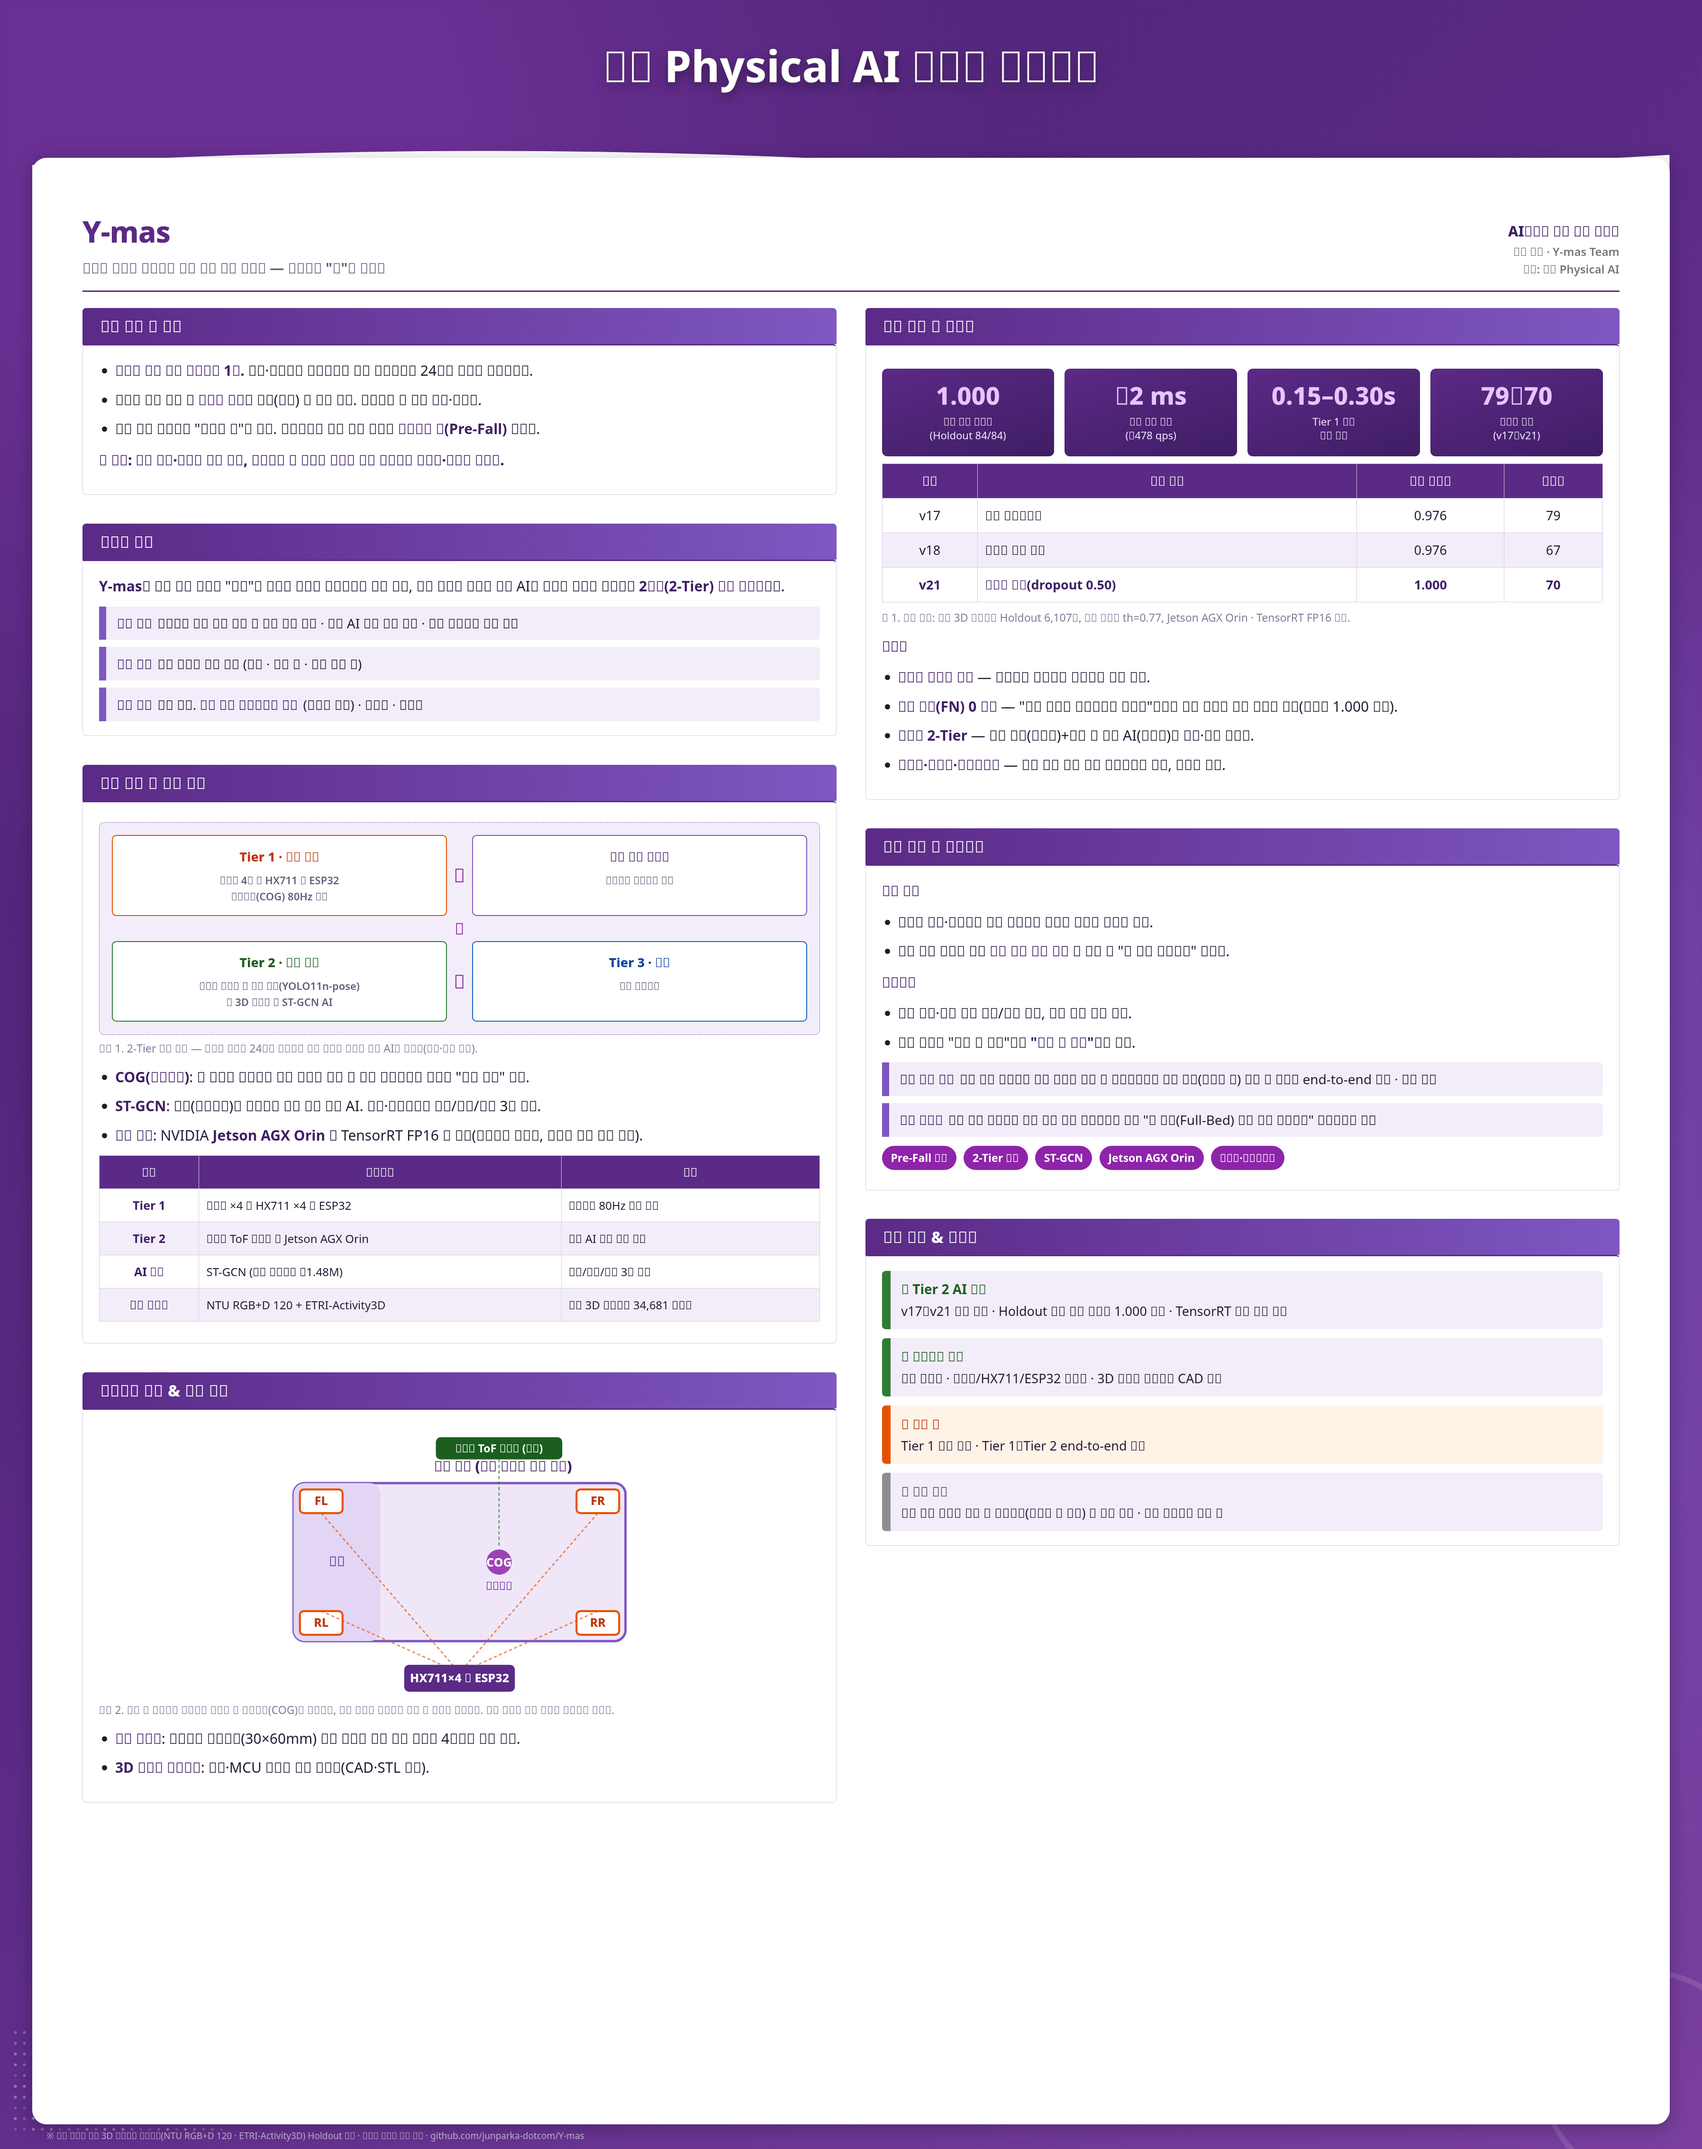
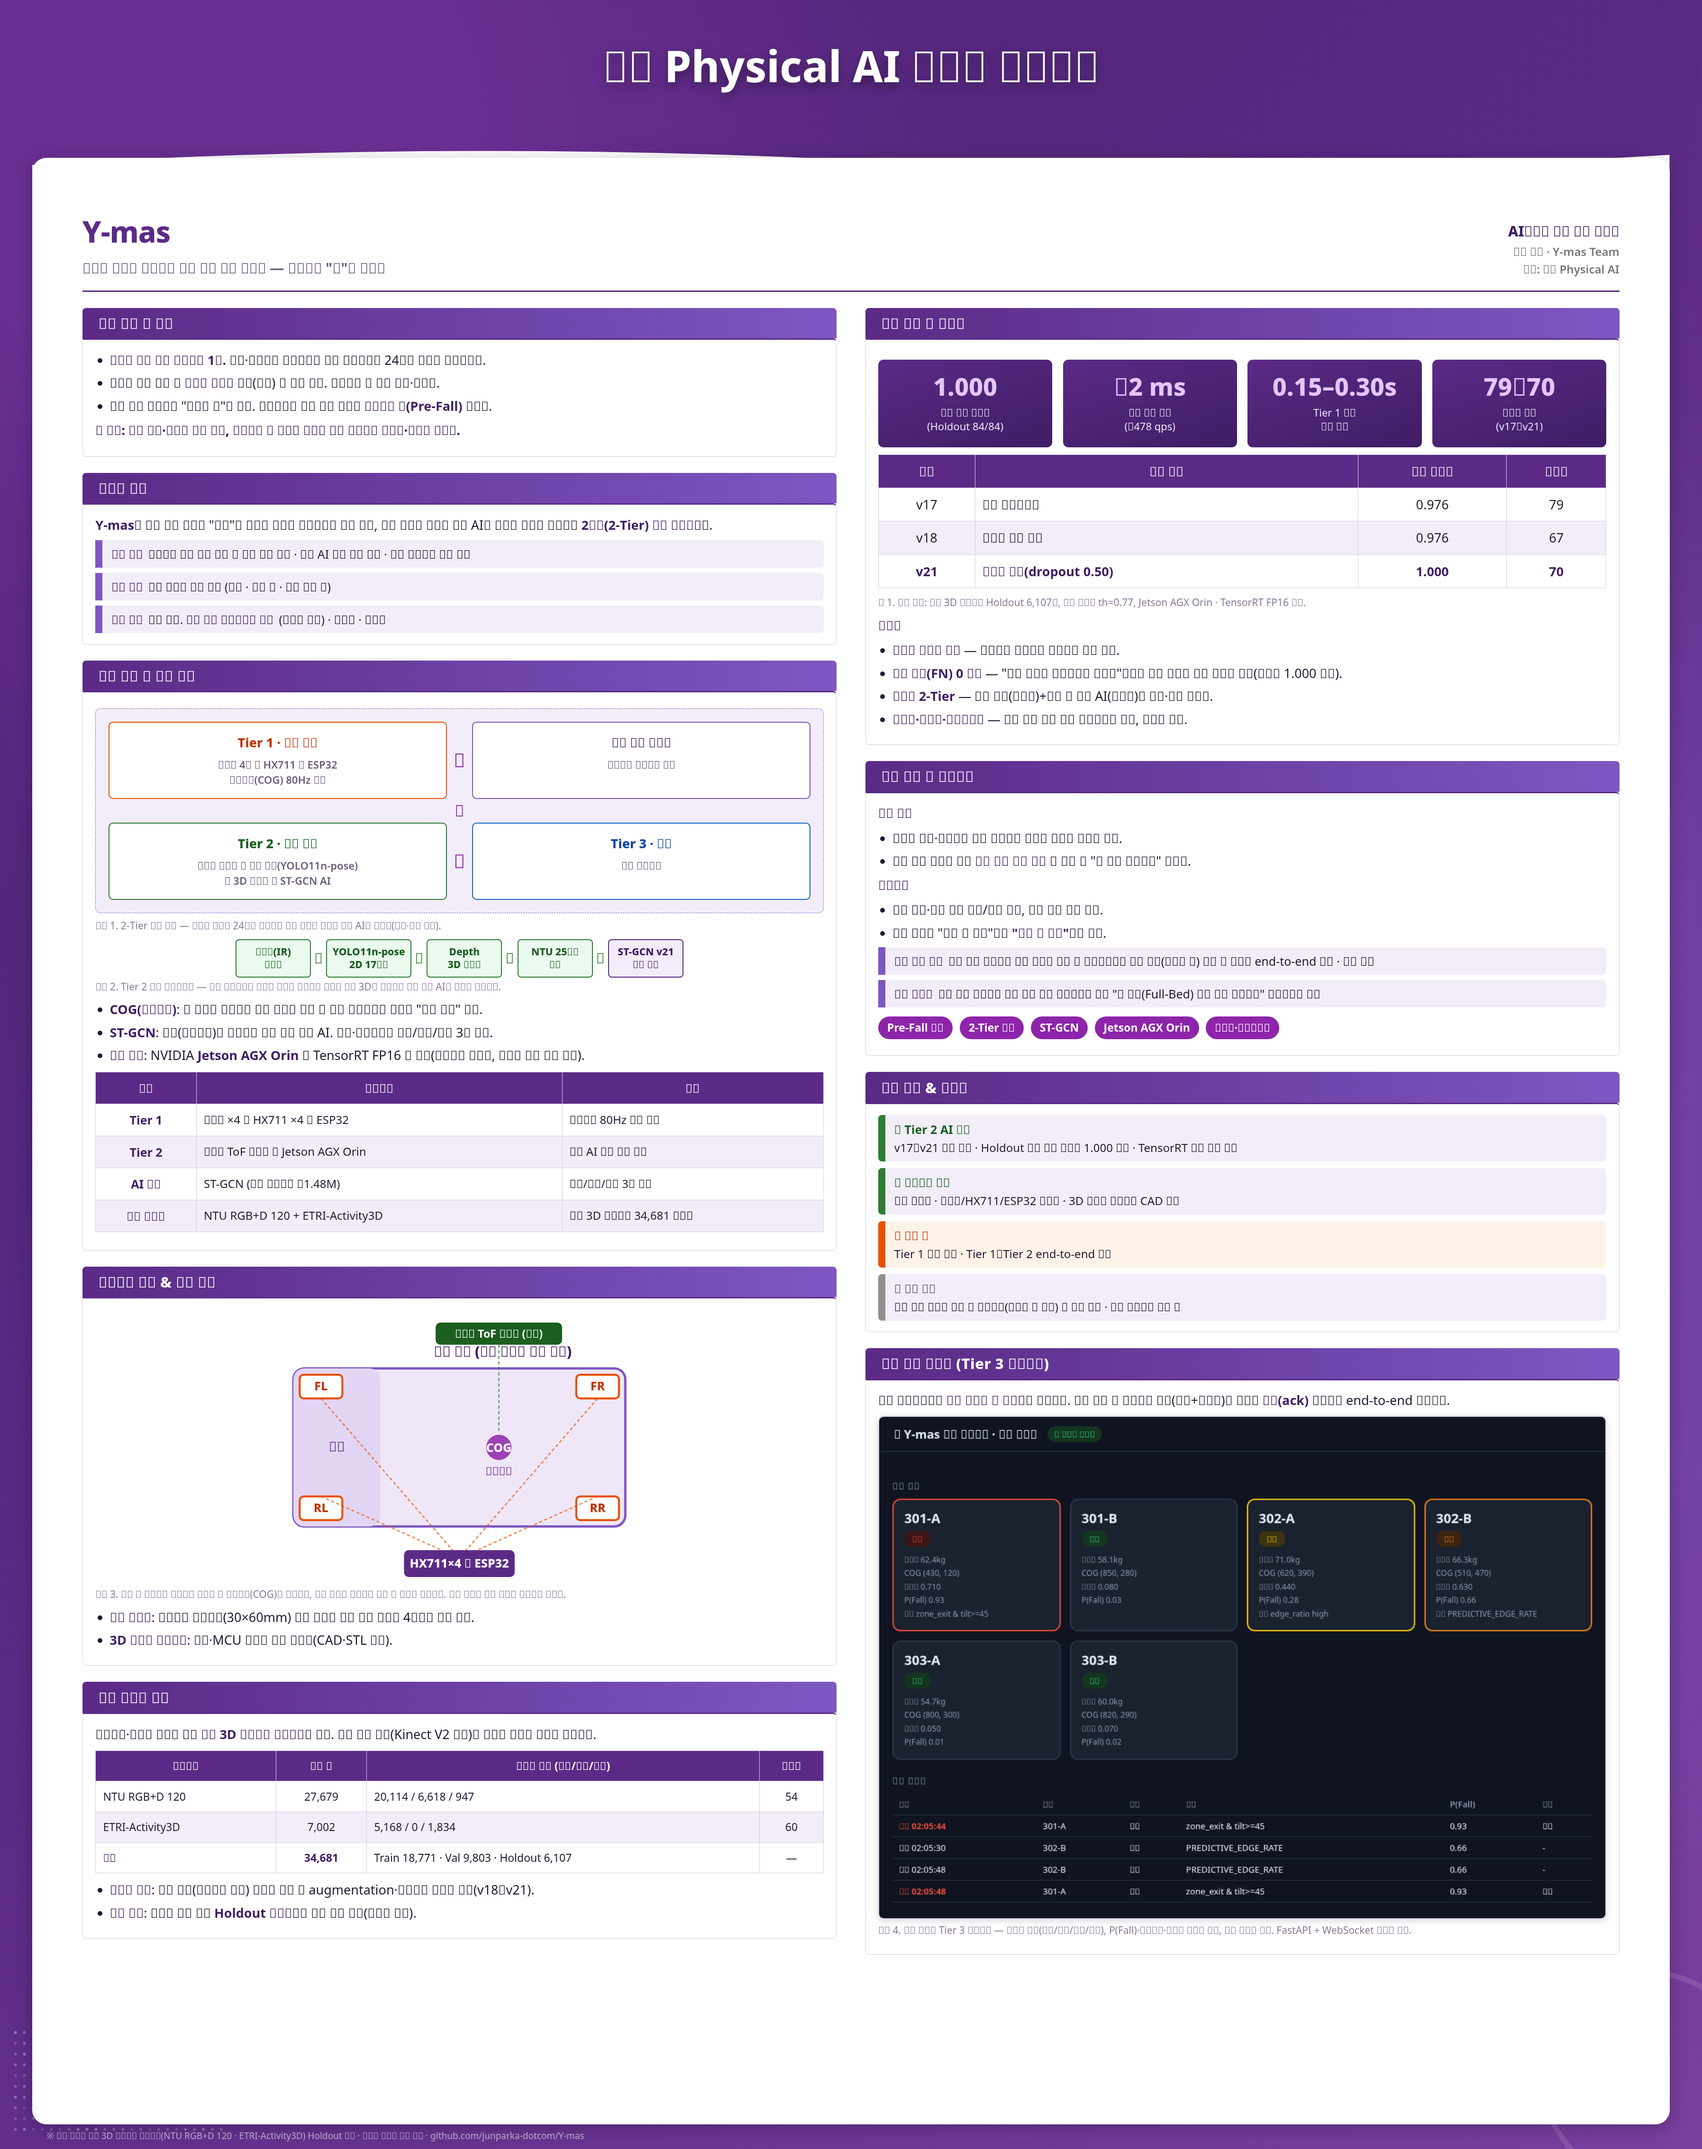
docs(poster): Tier2 파이프라인·학습 데이터·Tier3 대시보드 실화면 추가
- 핵심 기술에 Tier2 비전 파이프라인 5단계 플로우(그림2) 추가
  (IR→YOLO11n-pose→Depth 3D→NTU 25관절→ST-GCN v21)
- 학습 데이터 현황 표 추가(NTU 27,679/ETRI 7,002, 병합 34,681, Train/Val/Holdout)
- 최종 개발 플랫폼 섹션 추가: Tier3 간호 스테이션 대시보드 실제 작동 화면(그림4)
  (tier3/static/index.html 렌더 캡처 - 침대별 상태/P(Fall)/COG/이벤트 로그)
- 전체 콘텐츠가 950x1200mm 흰 영역 안에 들어오도록 여백·폰트 조정

diff --git a/docs/poster/ymas_poster.html b/docs/poster/ymas_poster.html
@@ -103,13 +103,13 @@
 
   /* ===== 2단 그리드 ===== */
   .grid{ display:grid; grid-template-columns:1fr 1fr; gap:16mm; flex:1; }
-  .colA,.colB{ display:flex; flex-direction:column; gap:16mm; }
+  .colA,.colB{ display:flex; flex-direction:column; gap:9mm; }
   .card{ display:flex; flex-direction:column; }
 
   /* 기능 박스 */
-  .feat{ display:flex; flex-direction:column; gap:4mm; margin-top:2mm; }
+  .feat{ display:flex; flex-direction:column; gap:3mm; margin-top:1mm; }
   .feat .f{ background:var(--soft); border-left:4mm solid var(--purple-l);
-    border-radius:0 2mm 2mm 0; padding:4mm 6mm; font-size:28px; line-height:1.45; }
+    border-radius:0 2mm 2mm 0; padding:3mm 5mm; font-size:25px; line-height:1.4; }
   .feat .f b{ display:inline-block; color:var(--purple); min-width:0; margin-right:3mm; }
   table.hw{ font-size:25px; margin-top:4mm; }
   table.hw td.l{ font-size:24px; }
@@ -118,20 +118,20 @@
   .card .cap{
     display:inline-block;
     background:linear-gradient(90deg,var(--purple),var(--purple-l));
-    color:#fff; font-weight:800; font-size:34px;
-    padding:4mm 10mm; border-radius:2mm 2mm 0 0;
+    color:#fff; font-weight:800; font-size:31px;
+    padding:3mm 9mm; border-radius:2mm 2mm 0 0;
     letter-spacing:.5px;
   }
   .card .cont{
     border:1.5px solid var(--line); border-top:3px solid var(--purple);
     border-radius:0 2mm 2mm 2mm;
-    padding:8mm 9mm; font-size:30px; line-height:1.55; background:#fff;
+    padding:6mm 7mm; font-size:27px; line-height:1.45; background:#fff;
   }
-  .card .cont p{ margin:0 0 5mm 0; }
+  .card .cont p{ margin:0 0 3.5mm 0; }
   .card .cont b{ color:var(--purple-d); }
-  .card .cont ul{ margin:0 0 5mm 0; padding-left:9mm; }
-  .card .cont li{ margin-bottom:4mm; }
-  .foot{ font-size:23px; color:#8a7a9c; }
+  .card .cont ul{ margin:0 0 3mm 0; padding-left:8mm; }
+  .card .cont li{ margin-bottom:2.5mm; }
+  .foot{ font-size:21px; color:#8a7a9c; margin:1mm 0 2mm; }
 
   .lead{ color:var(--purple-d); font-weight:800; }
 
@@ -163,14 +163,29 @@
   tbody tr:nth-child(even){ background:var(--soft); }
   td.l{ text-align:left; }
 
+  /* Tier2 파이프라인 */
+  .pipe{ display:flex; align-items:center; justify-content:center; gap:2mm; flex-wrap:wrap; margin:3mm 0 1mm; }
+  .pipe .pt{ background:#eafaef; border:2px solid #2e7d32; color:#1b5e20;
+    border-radius:2mm; padding:3mm 3mm; font-size:21px; font-weight:800; text-align:center; line-height:1.3; min-width:42mm; }
+  .pipe .pt.hl{ background:#f3edfa; border-color:var(--purple); color:var(--purple-d); }
+  .pipe .pa{ color:#2e7d32; font-size:30px; font-weight:900; }
+
+  /* 데이터 표 */
+  table.data th, table.data td{ font-size:23px; }
+  table.data td.l{ text-align:left; }
+
   /* 설치 개념도 */
   svg.bed{ width:100%; height:auto; max-height:150mm; display:block; margin:2mm 0 3mm; }
 
+  /* 플랫폼 스크린샷 */
+  img.shot{ width:100%; height:auto; display:block; border:2px solid var(--line);
+    border-radius:3mm; margin:3mm 0 2mm; box-shadow:0 1mm 4mm rgba(13,0,40,.15); }
+
   /* 로드맵 */
-  .road{ display:flex; flex-direction:column; gap:5mm; }
-  .road .step{ padding:5mm 6mm; border-radius:2mm; font-size:27px; line-height:1.45;
-    background:var(--soft); border-left:5mm solid var(--purple-l); }
-  .road .step b{ display:block; color:var(--purple-d); margin-bottom:1.5mm; font-size:28px; }
+  .road{ display:flex; flex-direction:column; gap:3.5mm; }
+  .road .step{ padding:3.5mm 5mm; border-radius:2mm; font-size:24px; line-height:1.4;
+    background:var(--soft); border-left:4mm solid var(--purple-l); }
+  .road .step b{ display:block; color:var(--purple-d); margin-bottom:1mm; font-size:25px; }
   .road .step.done{ border-left-color:#2e7d32; }
   .road .step.done b{ color:#1b5e20; }
   .road .step.now{ border-left-color:#e65100; background:#fff3e8; }
@@ -273,6 +288,15 @@
               </div>
             </div>
             <p class="foot">그림 1. 2-Tier 작동 흐름 — 저전력 센서가 24시간 감시하다 위험 시에만 고성능 비전 AI를 깨운다(전력·연산 절약).</p>
+
+            <div class="pipe">
+              <div class="pt">적외선(IR)<br>프레임</div><span class="pa">→</span>
+              <div class="pt">YOLO11n-pose<br>2D 17관절</div><span class="pa">→</span>
+              <div class="pt">Depth<br>3D 리프팅</div><span class="pa">→</span>
+              <div class="pt">NTU 25관절<br>매핑</div><span class="pa">→</span>
+              <div class="pt hl">ST-GCN v21<br>낙상 판정</div>
+            </div>
+            <p class="foot">그림 2. Tier 2 비전 파이프라인 — 소등 환경에서도 보이는 적외선 영상에서 자세를 뽑아 3D로 복원하고 동작 인식 AI로 낙상을 판정한다.</p>
             <ul>
               <li><b>COG(무게중심)</b>: 네 모서리 하중비로 환자 위치를 계산 → 침대 가장자리로 쏠리는 "이탈 전조" 포착.</li>
               <li><b>ST-GCN</b>: 관절(스켈레톤)을 그래프로 보는 동작 인식 AI. 자세·움직임으로 낙상/정상/위험 3종 분류.</li>
@@ -335,10 +359,30 @@
               <text x="330" y="31" font-size="14" text-anchor="middle" fill="#fff" font-weight="700">적외선 ToF 카메라 (천장)</text>
               <line x1="330" y1="40" x2="330" y2="150" stroke="#2e7d32" stroke-width="1.6" stroke-dasharray="4 3" opacity="0.7"/>
             </svg>
-            <p class="foot">그림 2. 침대 네 모서리의 로드셀이 하중을 재 무게중심(COG)을 계산하고, 천장 적외선 카메라가 필요 시 자세를 확인한다. 환자 신체에 어떤 장치도 부착하지 않는다.</p>
+            <p class="foot">그림 3. 침대 네 모서리의 로드셀이 하중을 재 무게중심(COG)을 계산하고, 천장 적외선 카메라가 필요 시 자세를 확인한다. 환자 신체에 어떤 장치도 부착하지 않는다.</p>
             <ul>
               <li><b>레일 플랫폼</b>: 알루미늄 프로파일(30×60mm) 위에 침대를 올려 전체 하중을 4점으로 분산 측정.</li>
               <li><b>3D 프린팅 인클로저</b>: 센서·MCU 보호용 맞춤 하우징(CAD·STL 완비).</li>
+            </ul>
+          </div>
+        </div>
+
+        <!-- 학습 데이터 현황 -->
+        <div class="card">
+          <span class="cap">학습 데이터 현황</span>
+          <div class="cont">
+            <p>개인정보·사생활 문제가 없는 <b>공개 3D 스켈레톤 데이터셋</b>만 사용. 같은 센서 계열(Kinect V2 포맷)로 통일해 도메인 혼선을 차단했다.</p>
+            <table class="data">
+              <thead><tr><th>데이터셋</th><th>샘플 수</th><th>클래스 분포 (정상/위험/낙상)</th><th>피험자</th></tr></thead>
+              <tbody>
+                <tr><td class="l">NTU RGB+D 120</td><td>27,679</td><td class="l">20,114 / 6,618 / 947</td><td>54</td></tr>
+                <tr><td class="l">ETRI-Activity3D</td><td>7,002</td><td class="l">5,168 / 0 / 1,834</td><td>60</td></tr>
+                <tr><td class="l"><b>병합</b></td><td><b>34,681</b></td><td class="l">Train 18,771 · Val 9,803 · Holdout 6,107</td><td>—</td></tr>
+              </tbody>
+            </table>
+            <ul>
+              <li><b>데이터 과제</b>: 동적 낙상(쓰러지는 순간) 샘플이 희소 → augmentation·정규화로 일반화 확보(v18→v21).</li>
+              <li><b>검증 방식</b>: 학습에 쓰지 않은 <b>Holdout 피험자</b>로만 최종 성능 측정(과적합 차단).</li>
             </ul>
           </div>
         </div>
@@ -415,6 +459,16 @@
               <div class="step now"><b>▶ 진행 중</b>Tier 1 실물 제작 · Tier 1↔Tier 2 end-to-end 통합</div>
               <div class="step todo"><b>○ 다음 단계</b>실제 병실 데이터 수집 → 파인튜닝(도메인 갭 해소) → 임상 검증 · 간호 스테이션 알림 앱</div>
             </div>
+          </div>
+        </div>
+
+        <!-- 최종 개발 플랫폼 -->
+        <div class="card">
+          <span class="cap">최종 개발 플랫폼 (Tier 3 대시보드)</span>
+          <div class="cont">
+            <p>간호 스테이션에서 <b>여러 침대를 한 화면</b>으로 모니터링. 낙상 확정 시 전체화면 경보(빨강+경보음)와 간호사 <b>확인(ack)</b> 처리까지 end-to-end 동작한다.</p>
+            <img class="shot" src="ymas_dashboard.png" alt="Y-mas 간호 스테이션 대시보드"/>
+            <p class="foot">그림 4. 실제 구현된 Tier 3 대시보드 — 침대별 상태(정상/주의/위험/낙상), P(Fall)·무게중심·이탈도 실시간 표시, 하단 이벤트 로그. FastAPI + WebSocket 실시간 통신.</p>
           </div>
         </div>
 

diff --git a/docs/poster/README.md b/docs/poster/README.md
@@ -15,9 +15,18 @@
 | 팀명·프로젝트명 + 한 줄 소개 | 헤더(Y-mas) |
 | 개발 배경 및 목적 | 개발 배경 및 목적 |
 | 솔루션 소개(기능·대상·환경) | 솔루션 소개 |
-| 핵심 기술 및 작동 방식 | 핵심 기술 및 작동 방식 + 하드웨어 구성 |
-| 주요 성과 및 차별점 | 주요 성과 및 차별점 |
-| 활용 방안 및 기대효과 | 활용 방안 및 기대효과 + 추진 현황/로드맵 |
+| 핵심 기술 및 작동 방식 | 핵심 기술 및 작동 방식(+Tier2 비전 파이프라인) · 하드웨어 구성 · 학습 데이터 현황 |
+| 주요 성과 및 차별점 | 주요 성과 및 차별점(버전별 성능 표) |
+| 활용 방안 및 기대효과 | 활용 방안 및 기대효과 · 추진 현황/로드맵 · **최종 개발 플랫폼(Tier3 대시보드 실화면)** |
+
+## 포함 자료
+- **그림 1** 2-Tier 작동 흐름
+- **그림 2** Tier 2 비전 파이프라인 (IR→YOLO11n-pose→Depth 3D→NTU 25관절→ST-GCN v21)
+- **그림 3** 침대 설치 개념도 (4점 로드셀 + COG + 천장 IR 카메라)
+- **그림 4** Tier 3 간호 스테이션 대시보드 **실제 작동 화면** (`ymas_dashboard.png` — `tier3/static/index.html`을 렌더링한 캡처)
+- **표 1** 버전별 성능(v17/v18/v21) · **학습 데이터 현황 표**(NTU/ETRI, Train/Val/Holdout)
+
+> `ymas_dashboard.png`는 실제 Tier 3 대시보드(`tier3/static/index.html`)에 샘플 이벤트를 주입해 캡처한 것입니다. 포스터 HTML은 이 파일을 상대경로로 참조합니다(같은 폴더에 있어야 함).
 
 ## PDF / 이미지로 변환하는 법
 
